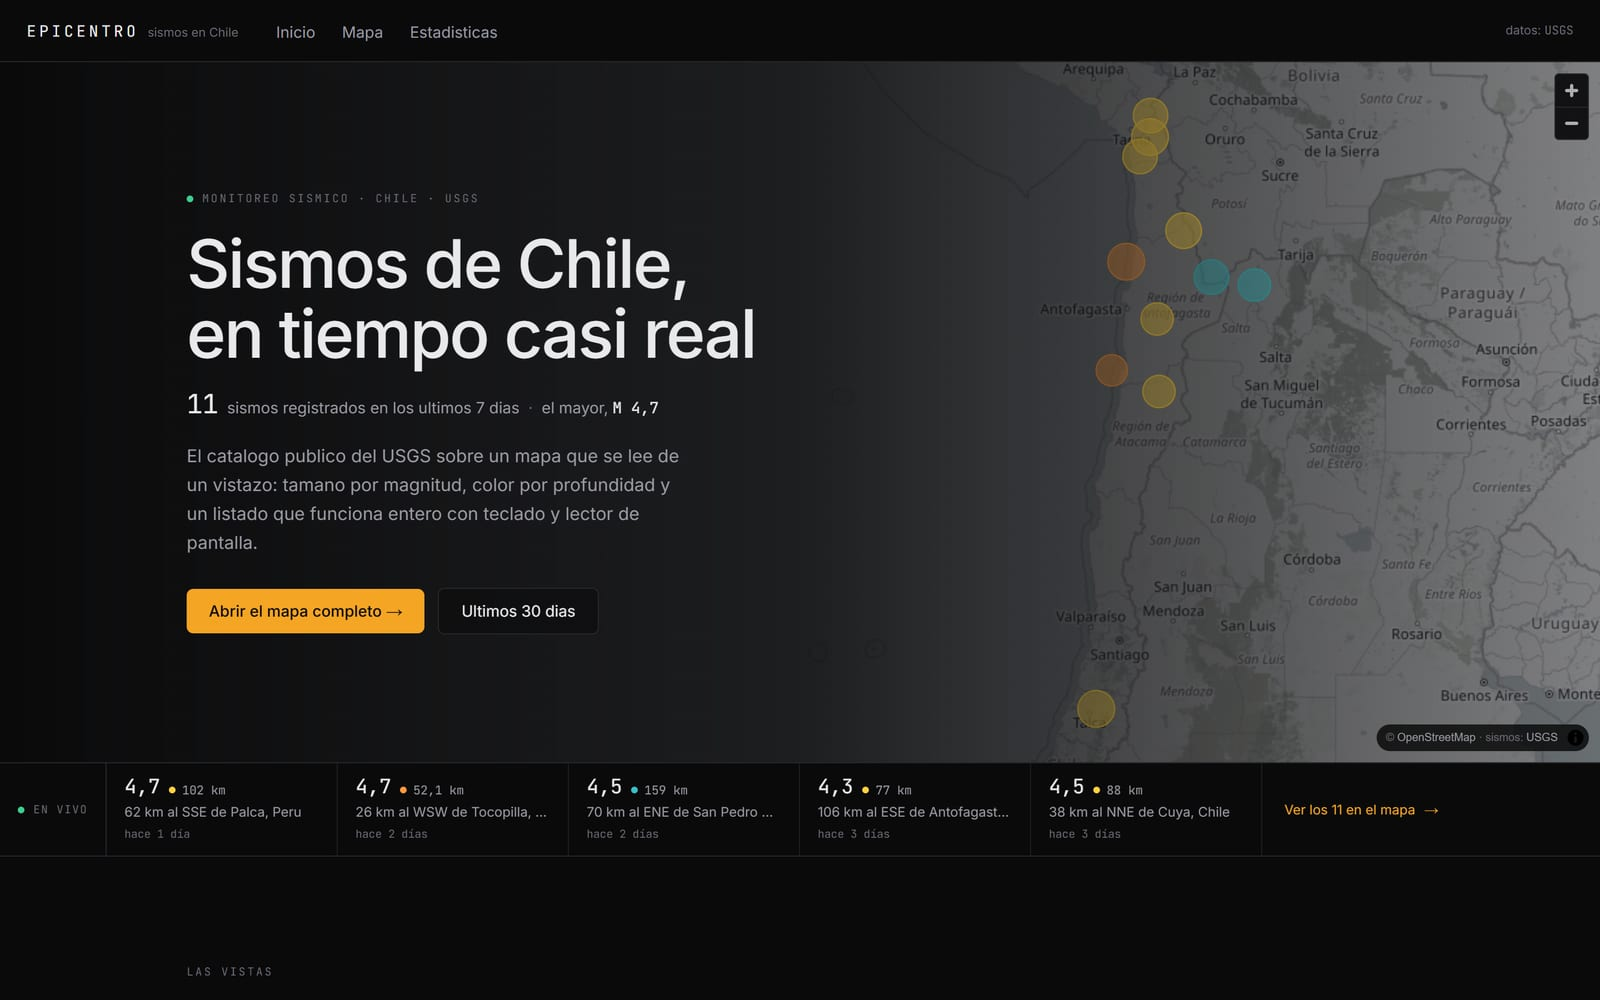
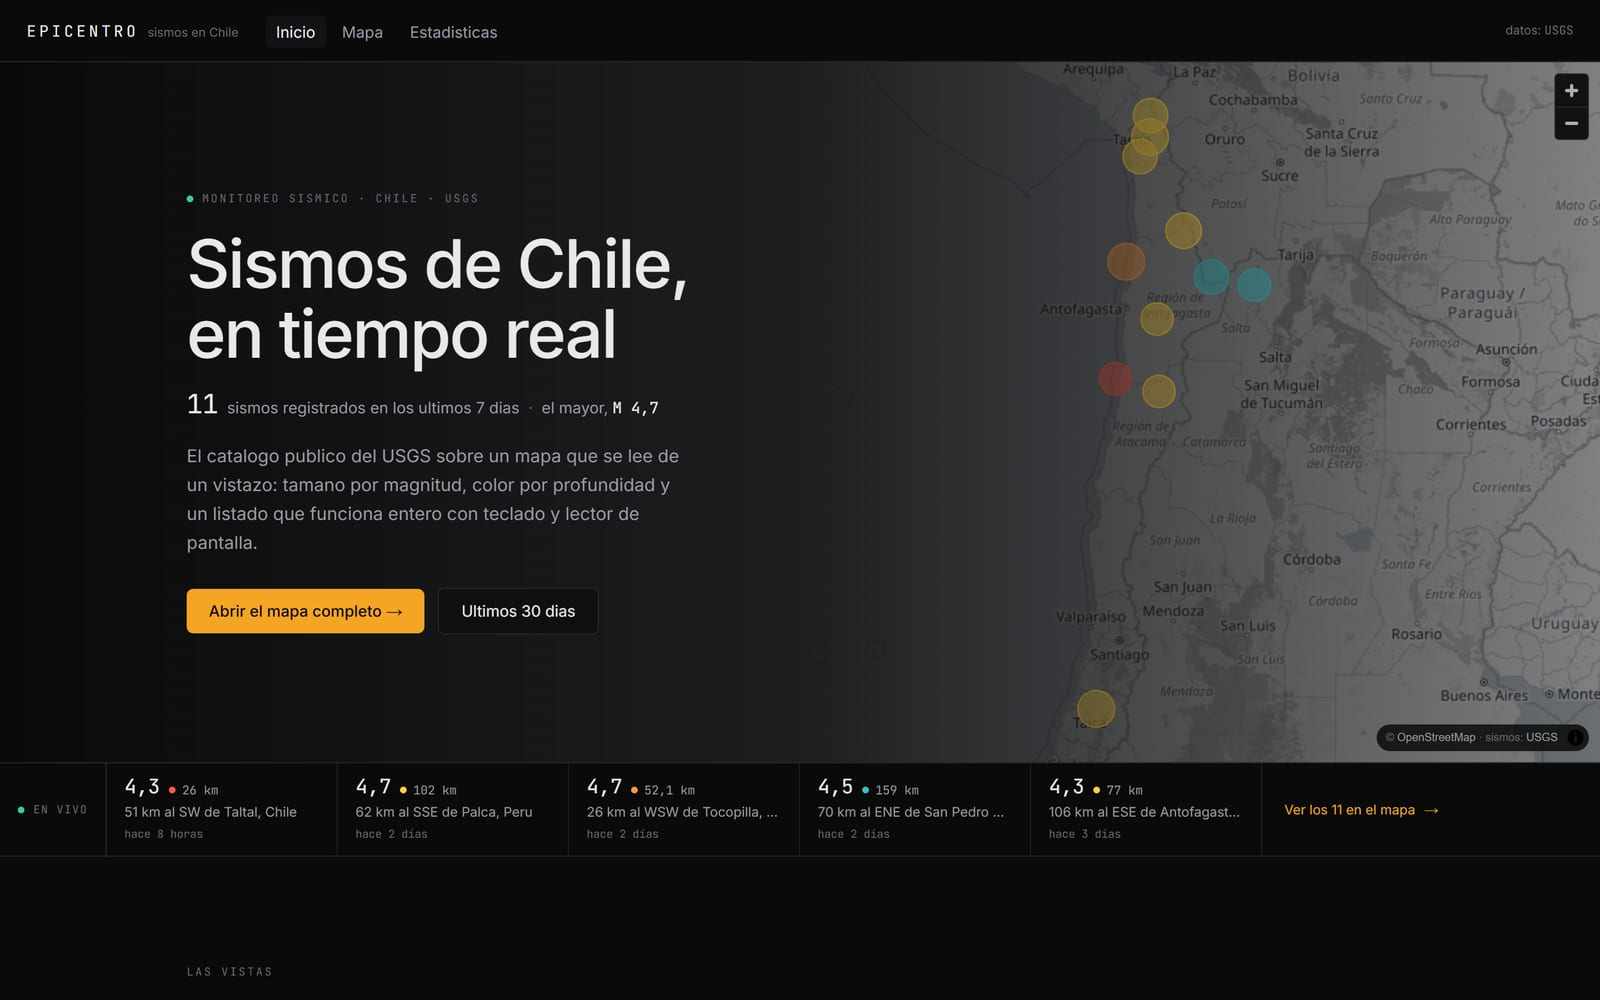
docs(proyectos): actualiza la miniatura y la descripción de Epicentro
El sitio cambió de portada. La descripción de la tarjeta seguía diciendo
"el mapa es el hero: MapLibre a pantalla completa", y eso ya no es cierto:
ahora hay vistas separadas de mapa y estadísticas, y la portada es un hero
partido con un listado en vivo.

Se recapturan las tres miniaturas y sus placeholders, y se regeneran las
capturas del README.

diff --git a/src/lib/blur-proyectos.ts b/src/lib/blur-proyectos.ts
@@ -1,9 +1,9 @@
 /** Generado por scripts/capturar-proyectos.mjs — no editar a mano. */
 export const BLUR_PROYECTOS: Record<string, string> = {
   "epicentro":
[2 lines of base64/hex data omitted]
   "turnera":
[2 lines of base64/hex data omitted]
   "centinela":
[2 lines of base64/hex data omitted]
 };

diff --git a/src/data/proyectos.ts b/src/data/proyectos.ts
@@ -20,8 +20,8 @@ export const proyectos: Proyecto[] = [
     slug: "epicentro",
     nombre: "Epicentro",
     descripcion: {
-      es: "Rastreador de sismos en Chile en tiempo casi real con datos del USGS. El mapa es el hero: MapLibre a pantalla completa sincronizado con un listado recorrible por teclado.",
-      en: "Near real-time earthquake tracker for Chile using USGS data. The map is the hero: full-screen MapLibre synced with a keyboard-navigable listing.",
+      es: "Rastreador de sismos en Chile en tiempo real con datos del USGS. Mapa, estadísticas de los últimos 30 días y un listado que funciona entero con teclado y lector de pantalla.",
+      en: "Real-time earthquake tracker for Chile using USGS data. A map, thirty-day statistics, and a listing that works end to end with a keyboard and a screen reader.",
     },
     tecnologias: [
       "Next.js 15",
